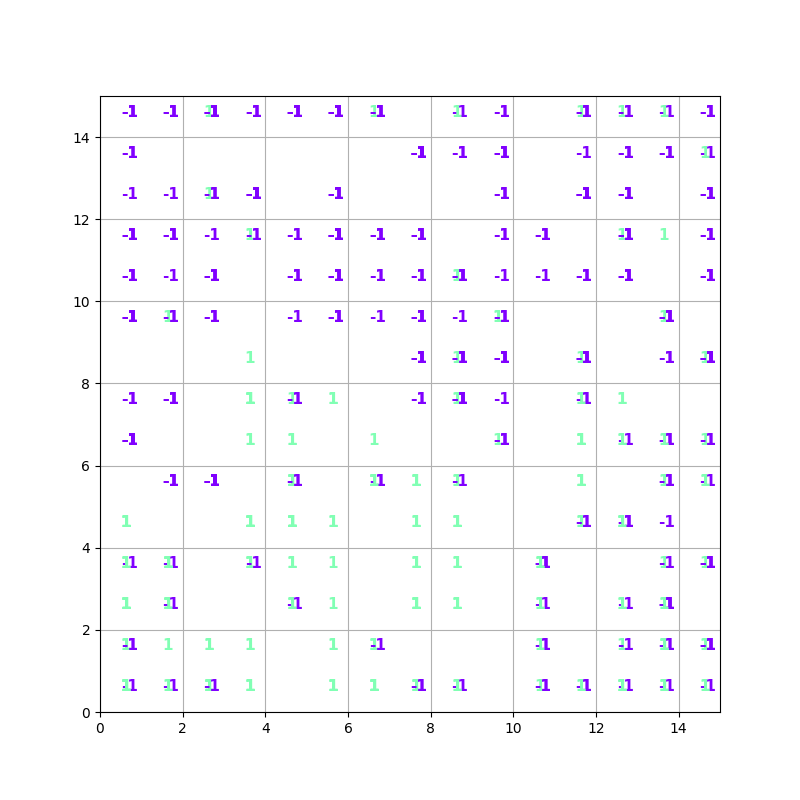
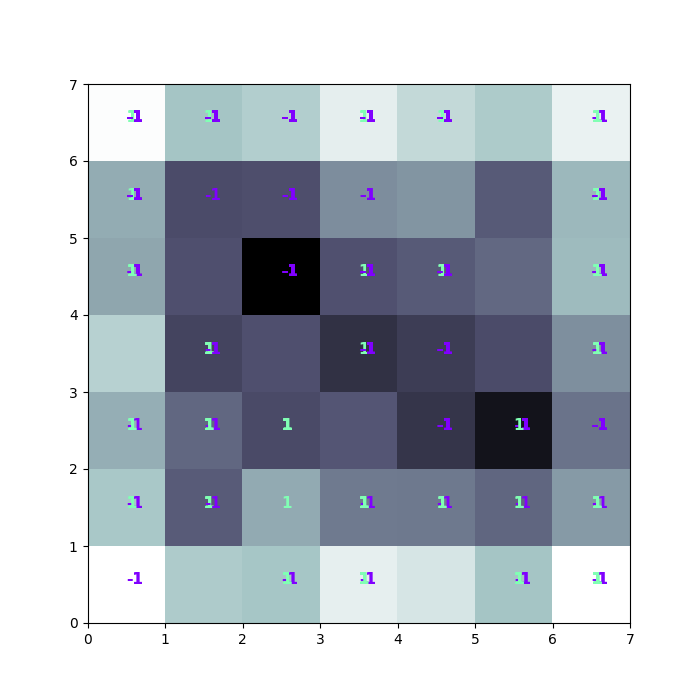
quantization error added.

diff --git a/outliers.py b/outliers.py
@@ -11,13 +11,38 @@ labels = df['Y']
 X = df.drop(columns='Y')
 X = np.apply_along_axis(lambda x: x/np.linalg.norm(x), 1, X)
 
-som = MiniSom(15, 15, X.shape[1], sigma=3.5, learning_rate=0.5,
+som = MiniSom(7, 7, X.shape[1], sigma=3, learning_rate=0.5,
               neighborhood_function='triangle',
               random_seed=10)
 
-som.train_random(X, 3000, verbose=True)
 
-plt.figure(figsize=(8, 8))
+som.pca_weights_init(X)
+print("Training...")
+som.train_batch(X, 1000, verbose=True)  # random training
+print("\n...ready!")
+#som.train_random(X, 7*7*600, verbose=True)
+
+
+# use different colors and markers for each label
+plt.figure(figsize=(7,7))
+plt.pcolor(som.distance_map().T, cmap='bone_r')  # plotting the distance map as background
+markers = ['o', 's']
+colors = ['C0', 'C1']
+for cnt, xx in zip(X, labels):
+    w = som.winner(cnt)  # getting the winner
+    # palce a marker on the winning position for the sample xx
+    i = 0 if xx == 1 else 1
+    plt.plot(w[0]+.5, w[1]+.5, markers[i], markerfacecolor='None',
+             markeredgecolor=colors[i], markersize=12, markeredgewidth=2)
+plt.axis([0, 7, 0, 7])
+plt.colorbar()
+plt.savefig('som_labels.png')
+plt.show()
+plt.close()
+
+
+plt.figure(figsize=(7, 7))
+plt.pcolor(som.distance_map().T, cmap='bone_r')  # plotting the distance map as background
 wmap = {}
 sample = 0
 for x, y in zip(X, labels):
@@ -27,7 +52,34 @@ for x, y in zip(X, labels):
     color = plt.cm.rainbow(y/2), fontdict={'weight': 'bold', 'size': 11})
     sample = sample + 1
 plt.axis([0, som.get_weights().shape[0], 0, som.get_weights().shape[1]])
-plt.grid()
+#plt.grid(linestyle='--', linewidth=.4, which="both")
 plt.savefig('som_labels_.png')
 plt.show()
+plt.close()
+#  Quantization Error
+max_iter = 10**4
+q_error = []
+t_error = []
+iter_x = []
+for i in range(max_iter):
+    percent = 100 * (i + 1) / max_iter
+    rand_i = np.random.randint(len(X))  # This corresponds to train_random() method.
+    som.update(X[rand_i], som.winner(X[rand_i]), i, max_iter)
+    if (i + 1) % 100 == 0:
+        q_error.append(som.quantization_error(X))
+        t_error.append(som.topographic_error(X))
+        iter_x.append(i)
+        #sys.stdout.write(f'\riteration={i:2d} status={percent:0.2f}%')
+
+plt.plot(iter_x, q_error, label='quantization error')
+plt.plot(iter_x, t_error, label='topological error')
+
+plt.ylabel('error')
+plt.xlabel('iteration index')
+plt.grid(linestyle='--', linewidth=.4, which="both")
+
+plt.legend()
+plt.savefig('quant_top_error.png')
+plt.show()
+plt.close()
 
